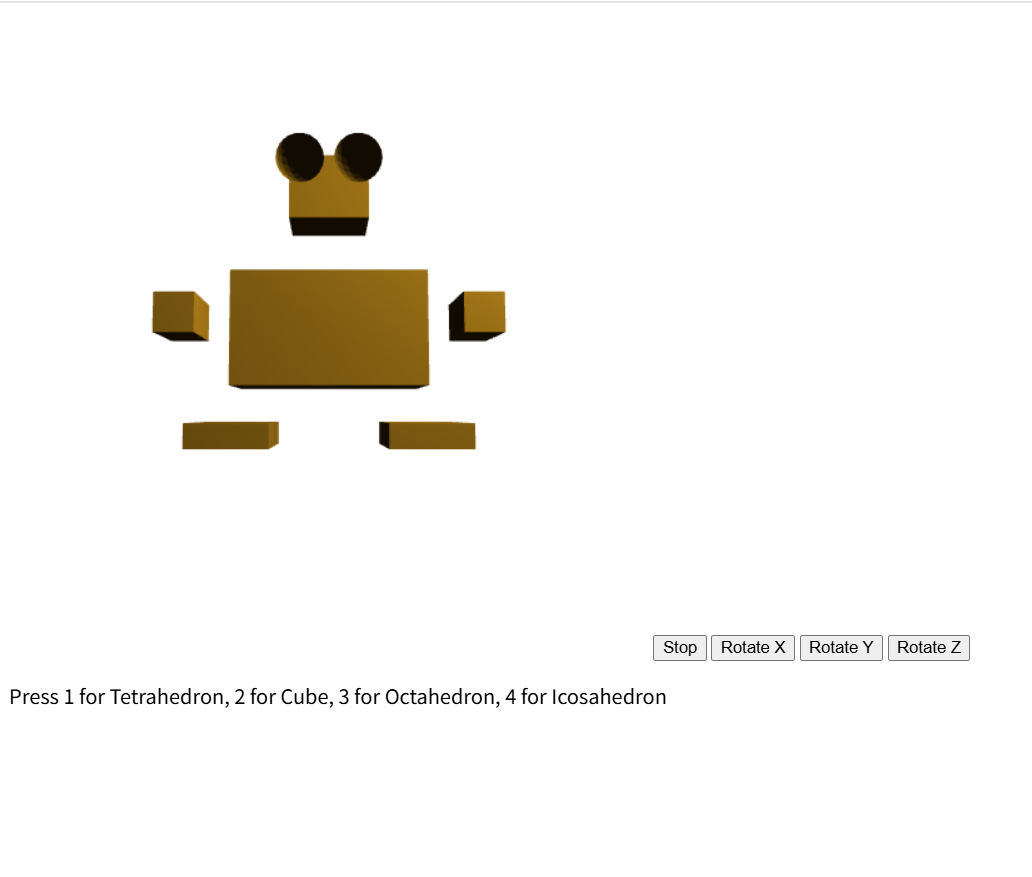
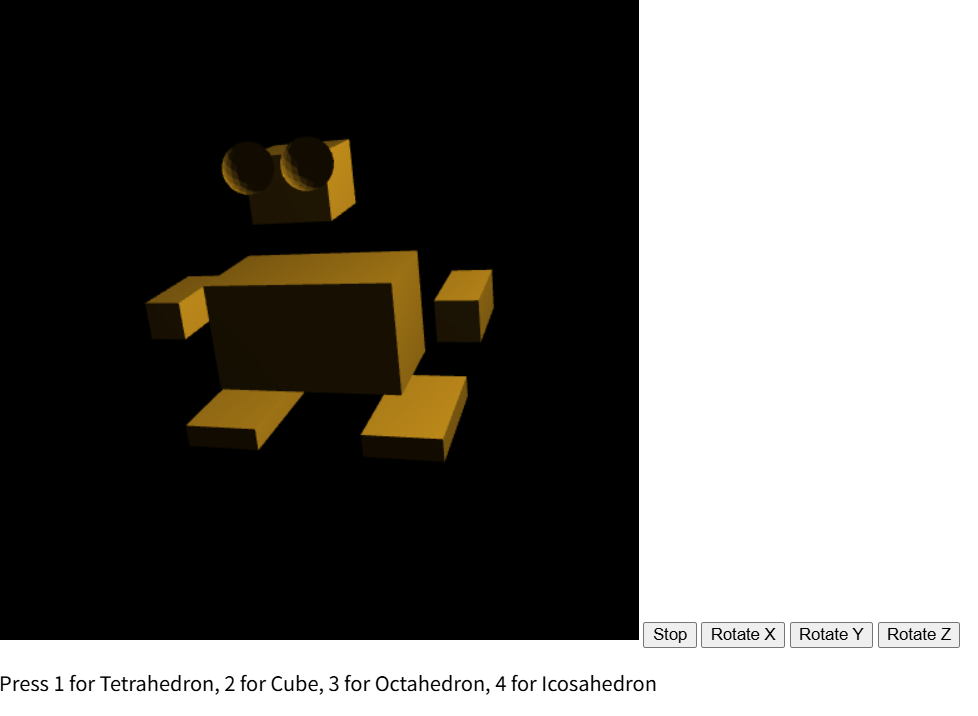
Changed speed and background

diff --git a/JackTsuiLight/part3.js b/JackTsuiLight/part3.js
@@ -19,7 +19,7 @@ var theta = [0, 0, 0];
 var thetaLoc;
 var projectionLoc;
 var modelViewLoc;
-var speed = 2.0;
+var speed = 1.0;
 var handlersAdded = false; // Flag to ensure listeners are added once
 var animFrameId = null;
 
@@ -42,7 +42,7 @@ function transformPositions(posArray, offset, scale) {
 }
 
 // Start with a WALL·E-like robot scene by default
-init("wally");
+init("wallyE");
 
 function init(picture)
 {
@@ -74,7 +74,7 @@ function init(picture)
     }
     
     // New: construct a WALL·E-like robot from primitives
-    if (picture == "wally") {
+    if (picture == "wallyE") {
         // body (slightly rectangular cube)
         var body = drawCube();
         var bodyPos = transformPositions(body.positions, [0.0, 0.0, 0.0], [1.2, 0.7, 0.7]);
@@ -141,7 +141,7 @@ function init(picture)
     }
 
     gl.viewport(0, 0, canvas.width, canvas.height);
-    gl.clearColor(1.0, 1.0, 1.0, 1.0);
+    gl.clearColor(0.0, 0.0, 0.0, 1.0);
 
     gl.enable(gl.DEPTH_TEST);
 
@@ -229,7 +229,7 @@ function init(picture)
         document.addEventListener('keydown', function(event) {
             var key = event.key;
             switch(key) {
-                case '9': init("wally"); break;
+                case '9': init("wallyE"); break;
                 case '1': init("tetrahedron"); break;
                 case '2': init("cube"); break;
                 case '3': init("octahedron"); break;
@@ -577,6 +577,7 @@ function drawSphere(subdivisions) {
 
 function render()
 {
+
     gl.clear( gl.COLOR_BUFFER_BIT | gl.DEPTH_BUFFER_BIT);
 
     theta[axis] += speed;
